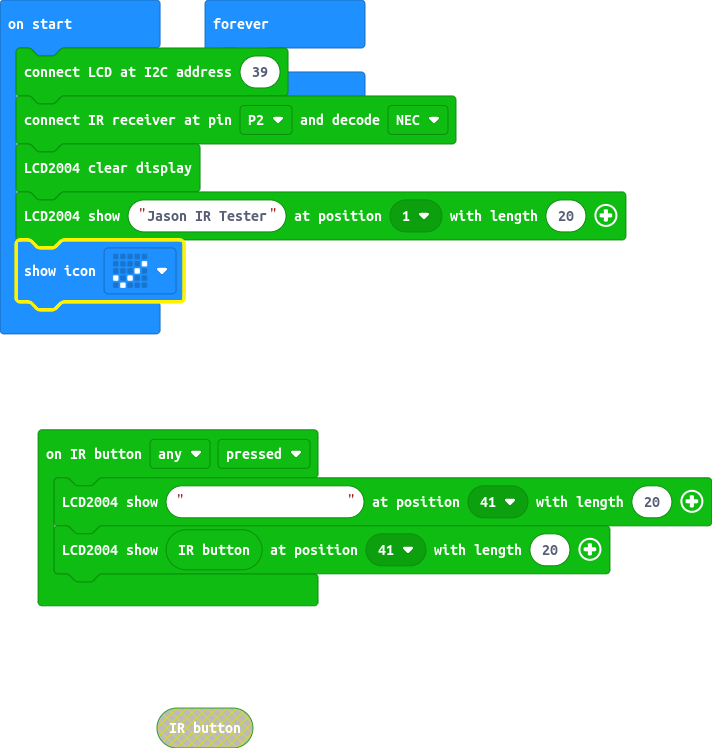
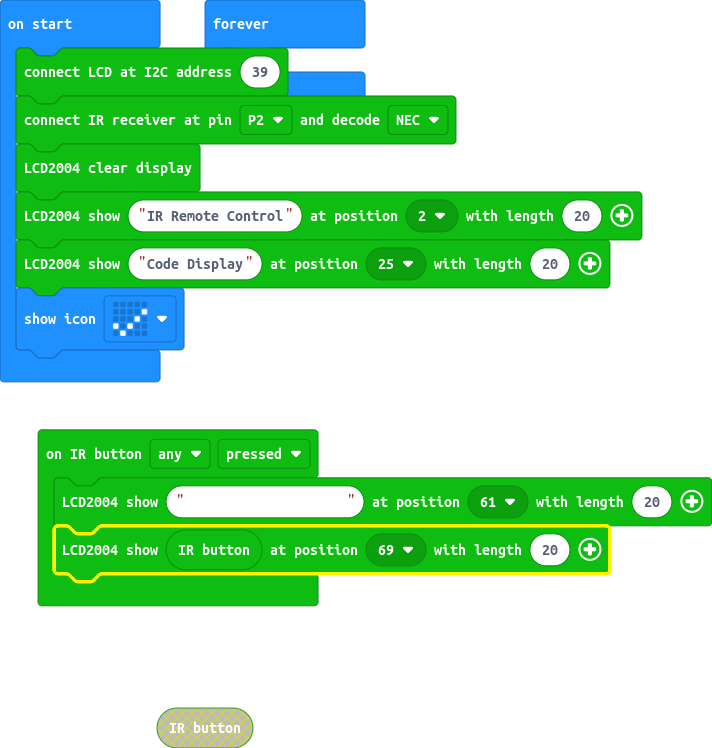
format output to vertical centered

diff --git a/main.ts b/main.ts
@@ -1,11 +1,12 @@
 makerbit.onIrButton(IrButton.Any, IrButtonAction.Pressed, function () {
-    makerbit.showStringOnLcd2004("                    ", makerbit.position2004(LcdPosition2004.Pos41), 20)
-    makerbit.showStringOnLcd2004("" + (makerbit.irButton()), makerbit.position2004(LcdPosition2004.Pos41), 20)
+    makerbit.showStringOnLcd2004("                    ", makerbit.position2004(LcdPosition2004.Pos61), 20)
+    makerbit.showStringOnLcd2004("" + (makerbit.irButton()), makerbit.position2004(LcdPosition2004.Pos69), 20)
 })
 makerbit.connectLcd(39)
 makerbit.connectIrReceiver(DigitalPin.P2, IrProtocol.NEC)
 makerbit.clearLcd2004()
-makerbit.showStringOnLcd2004("Jason IR Tester", makerbit.position2004(LcdPosition2004.Pos1), 20)
+makerbit.showStringOnLcd2004("IR Remote Control", makerbit.position2004(LcdPosition2004.Pos2), 20)
+makerbit.showStringOnLcd2004("Code Display", makerbit.position2004(LcdPosition2004.Pos25), 20)
 basic.showIcon(IconNames.Yes)
 basic.forever(function () {
 	
